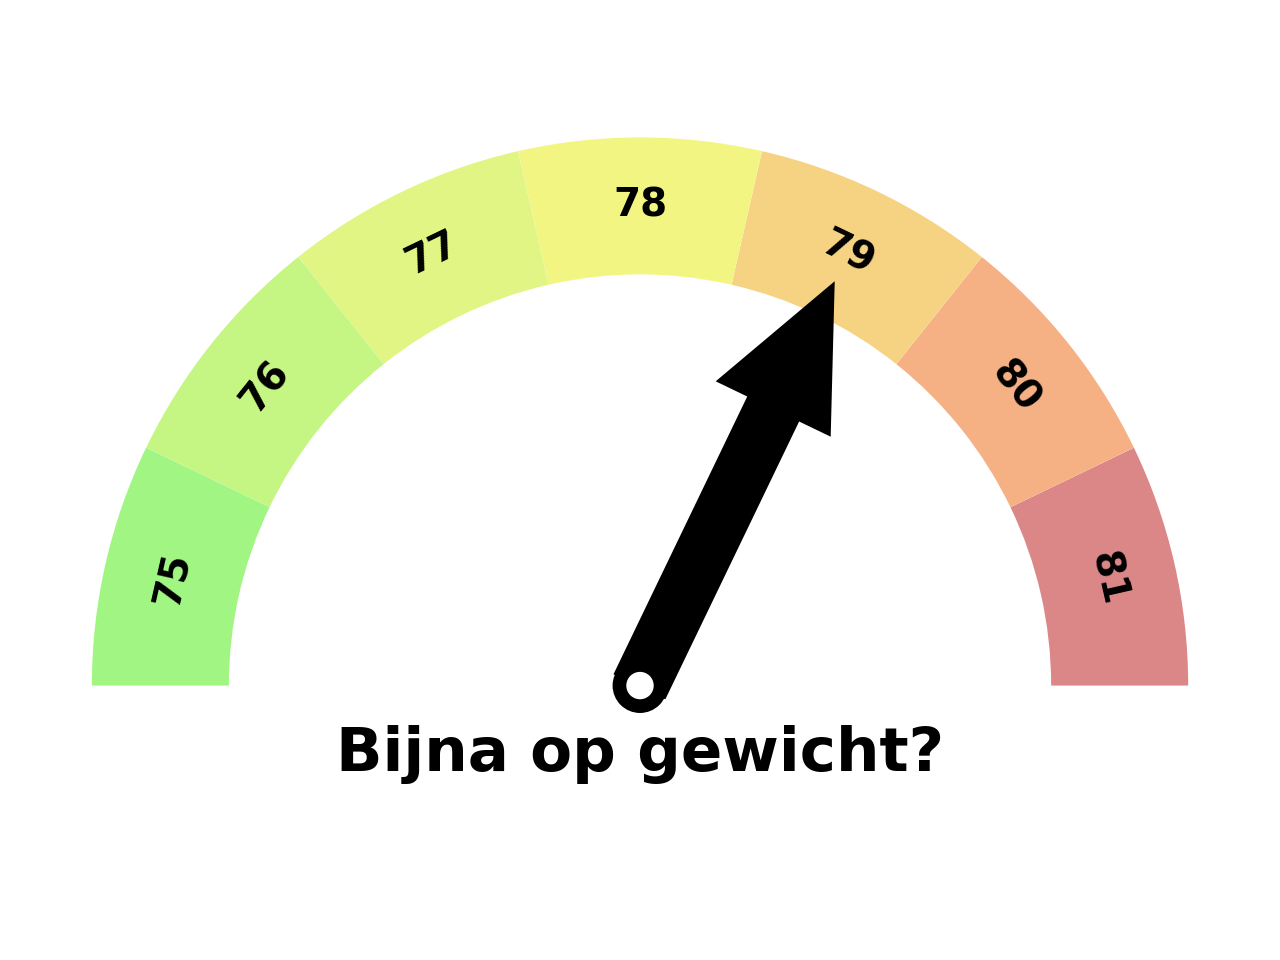
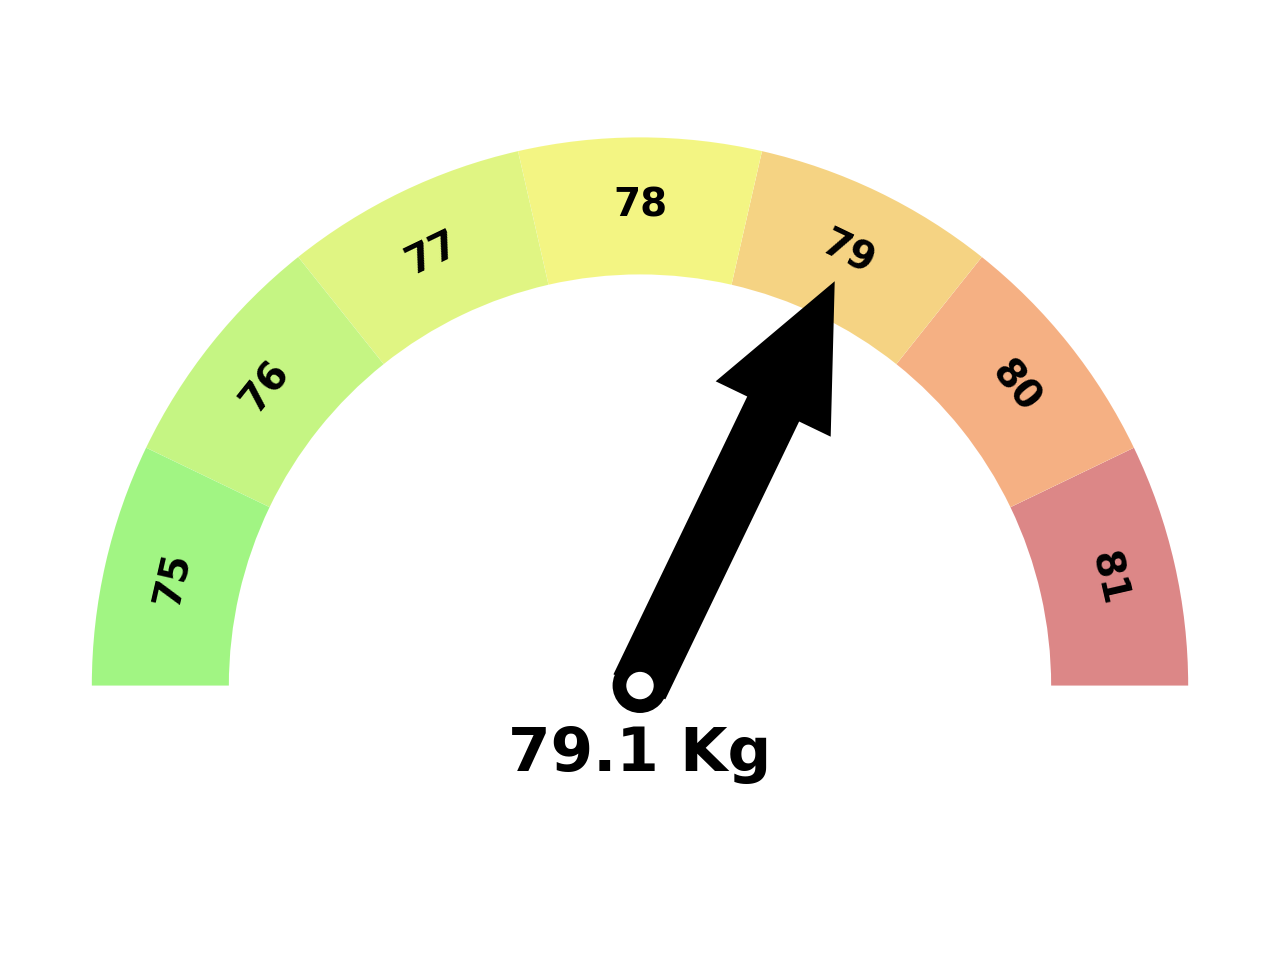
gauge bmi

Changed region(s): [[0.25, 0.75, 0.75, 0.8125]]

diff --git a/functions/creategraphs.py b/functions/creategraphs.py
@@ -24,6 +24,7 @@ class CreateGraphs:
         self.mathlib_pie_charts()
         self.basic_bar_chart()
         self.create_gauge()
+        self.create_bmi()
         self.basic_Line_chart()
         self.basic_Line_chart('No')
 
@@ -39,8 +40,37 @@ class CreateGraphs:
         filename = os.path.join(self.image_folder, "gauge.png")
         g.gauge(labels=my_labels,
                 colors=['#45ed08', '#8ded08', '#c3ed08', '#e9ed09', '#eda808', '#ed6308', '#ba1010'],
-                arrow=my_arrow, title='Bijna op gewicht?', fname=filename)
+                arrow=my_arrow, title="{} Kg".format(self.weight_data['lastval']), fname=filename)
 
+    def create_bmi(self):
+
+        g = Gauge()
+        my_labels = ['Ondergewicht', 'Gezond gewicht', 'Overgewicht', 'Obesitas']
+
+        bmi = self.weight_data['lastval_bmi']
+
+        print(bmi)
+
+        if bmi < 18.5:
+            my_arrow = 1
+        elif 18.5 < bmi < 24.9:
+            my_arrow = 2
+        elif 24.9 < bmi < 29.9:
+            my_arrow = 3
+        elif bmi >= 30:
+            my_arrow = 4
+        else:
+            return
+
+        # Minder dan 18,5 = ondergewicht
+        # Tussen 18,5 en 24,9 = gezond normaal gewicht
+        # Tussen 25 en 29,9 = overgewicht
+        # Meer dan 30 = Obesitas
+
+        filename = os.path.join(self.image_folder, "bmi.png")
+        g.gauge(labels=my_labels,
+                colors=['#f2491a', '#36ce33', '#f1b119', '#f2491a'],
+                arrow=my_arrow, title='BMI {}'.format(bmi), fname=filename)
 
     def mathlib_pie_chart(self):
         labels = 'bodyFat', 'muscleMass', 'boneMass', 'bodyWater'

diff --git a/docs/index.md b/docs/index.md
@@ -21,11 +21,13 @@ I've got this Medisana scale that uploads my data into the Medisana VitaDock Clo
 
 They still have the VitaDock online portal, but I wanted direct access to my own data.
 
+At first the idea was to scrape the data out of my own personal pages on the VitaDock site. But after some digging I found out that they are filling the site with a JSON.
+
 So I created a Python script that actually get's this data from the VitaDock Portal.
 
 ## Medisana Weights script
 
-You can get the data also with my free to use script. The script can be found on my [github account](https://github.com/tvdsluijs/medisana_weights)
+You can also easily grab your Medisana weight data with my script. The script can be found on my [github account](https://github.com/tvdsluijs/medisana_weights)
 
 The only thing you need is a login to the VitaDock site and be able to run Python on your machine.
 
@@ -41,11 +43,11 @@ You can find a complete data file on the [data]({{ site.baseurl }}/data) page
 
 To get the data from the Medisana Vita Dock site I had to do some steps in order to get it.
 
-In short my python script should:
-1. Go to the login page to get a hidden secret key (the is regenerated every so many minutes)
-2. Login to the page, together with the hidden secret key, and data from some other hidden fields
+In short my python script:
+1. Goes to the login page to get a hidden secret key (the is regenerated every so many minutes)
+2. Login to the page, together with the hidden secret key and data from some other hidden fields
 3. Go to the weights page where the the data was beeing generated 
-4. Go to the url where the actual data is
+4. Go to the url where the actual data is (JSON Data)
 
 Maybe there is an easier way... but I did not find it yet!
 
@@ -60,12 +62,14 @@ To get to the data I use to libraries from pip
 
 * requests
 * BeautifulSoup
+* pyyaml
 
 You can install them easily by:
 
 ```bash
 pip install requests
 pip install beautifulsoup4
+pip install pyyaml
 ```
 
 With beautifulsoup I get the so called secret key from the signin page:
@@ -88,4 +92,4 @@ So just grab my [repository](https://github.com/tvdsluijs/medisana_weights) and
 
 `python medisana.py`
 
-Oh... don't forget to create a config.yml file in the config folder with your login credentials.
+Oh... don't forget to create a config.yml file in the config folder with your login credentials. There is a sample file

diff --git a/docs/graphs.md b/docs/graphs.md
@@ -78,3 +78,4 @@ Just put the labels in, then get the sizes from the self.weight_data variable pu
 ![Pie Charts](graphs/pie-charts.png)
 ![Line Chart](graphs/linechart_04-2019.png)
 ![Line Chart](graphs/gauge.png)
+![Line Chart](graphs/bmi.png)
